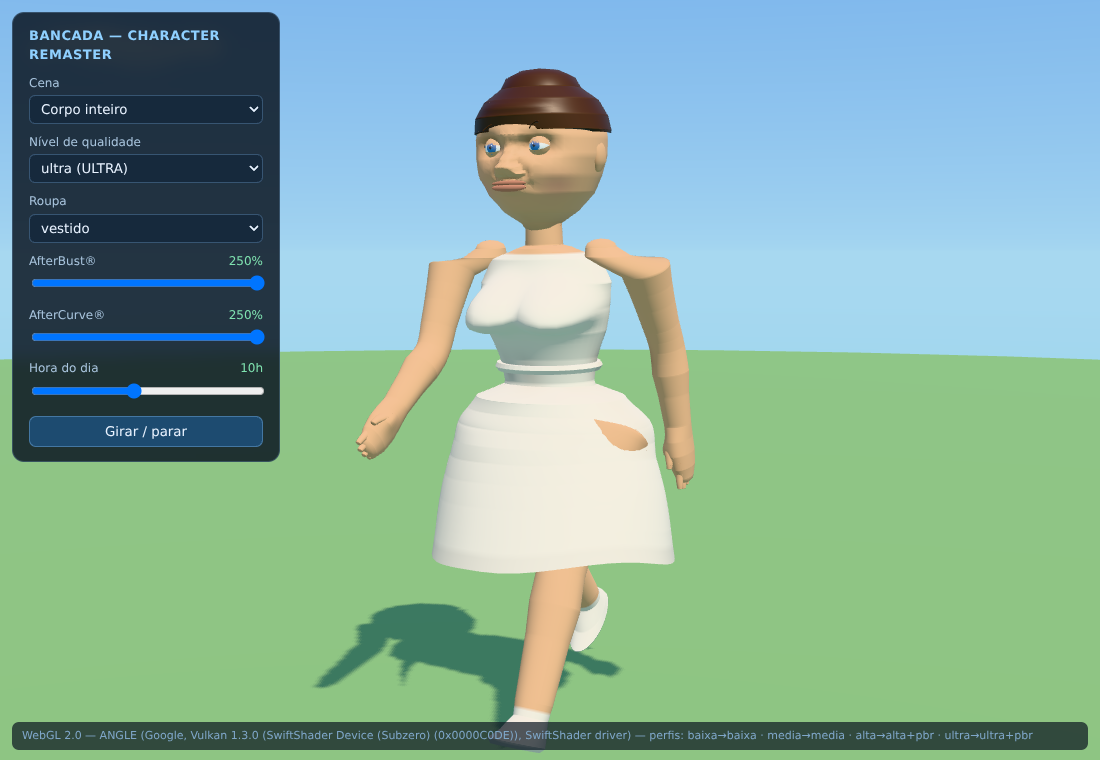
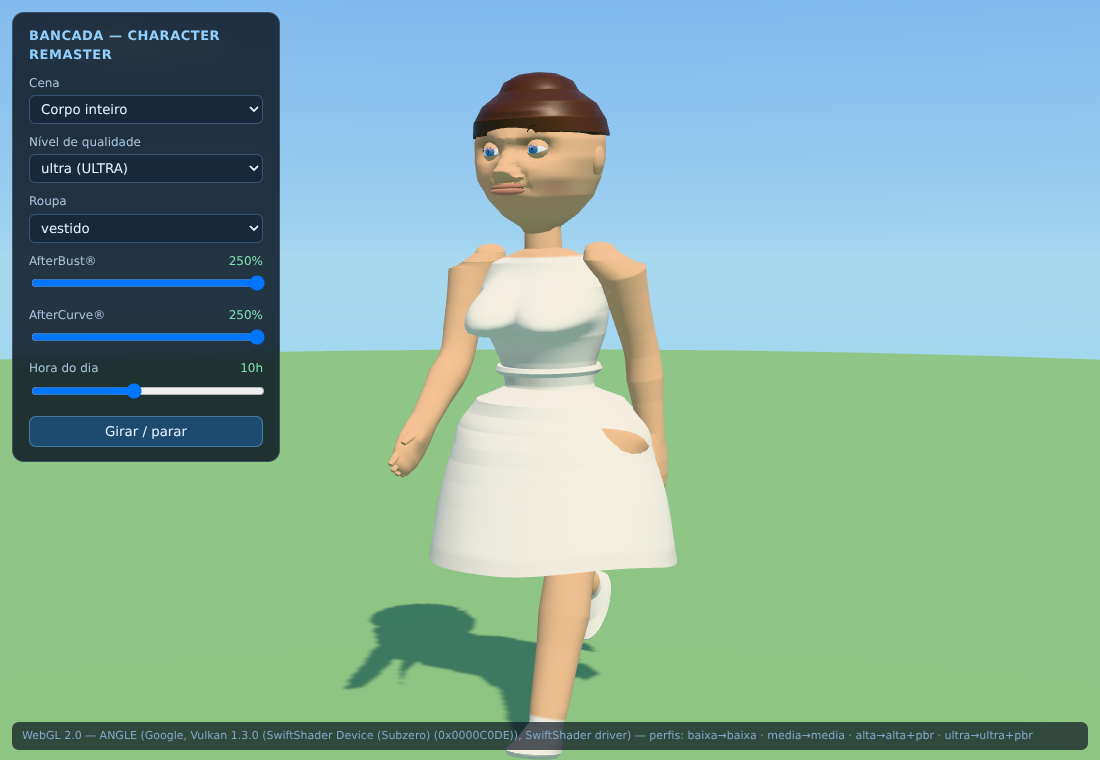
corrige a junção do ombro: o recuo da junta vinha da matemática antiga
O braço descolava do tronco. Medido, sobreposição braço↔tronco na
altura 0.30: +14 mm encaixado em 0% virava 44 mm de FENDA com o busto
em 250%, e 71 mm com o quadril.

A causa é uma constante que sobreviveu à reescrita do campo.
SHOULDER_SPREAD = 0.034 recuava a junta 85 mm em 250%, número que batia
com o BET antigo, cuja banda de busto abria o peito em gainX 0.2. Hoje o
volume vem dos lobos e a banda abre 0.055: o peito cresce 22 mm e a
junta continuava recuando 85 mm. O braço saía quatro vezes mais do que
o corpo engordava.

O recuo deixou de ser constante e passa a ser medido no próprio campo:
pergunta-se ao AfterBust quanto ele desloca a superfície do tronco na
altura da axila, e a junta recua exatamente isso. Se alguém retunar o
campo amanhã, o rig acompanha sozinho.

O AfterCurve foi desligado do ombro. Ele não alarga o corpo na altura da
axila, então mover a junta por causa dele só abria fenda — era um erro
meu do commit anterior.

Resultado: braço encaixado em toda a progressão (+36, +29, +20, +6 mm em
250%, contra +45, +41, +14, +6 em 0%) e deltoide esticando 18,8 mm em
vez de 74 mm.

A rigidez do membro foi preservada: 4 972 vértices, 0,000 mm de mudança
em qualquer combinação. Sem S no antebraço, sem cotovelo deslocado.

Custo declarado: a invasão mão/tecido com o quadril em 250% volta de
57 mm para 142 mm, porque era o recuo exagerado da junta que a
disfarçava. Preferi o ombro correto ao número bonito, e o relatório traz
[…]

Changed region(s): [[0.3091, 0.0908, 0.6491, 0.6355], [0.4018, 0.7263, 0.6182, 1.0], [0.2782, 0.8171, 0.3709, 0.9079]]

diff --git a/src/player/Avatar.ts b/src/player/Avatar.ts
@@ -1,5 +1,5 @@
 import * as THREE from 'three';
-import { MAX_INTENSITY, aftersMorphGLSL } from '../afters/AftersMorph';
+import { MAX_INTENSITY, Zone, aftersMorphGLSL, displaceVertex } from '../afters/AftersMorph';
 import { MAX_GESTATION, gestationGLSL } from './Gestation';
 import { clamp } from '../utils/math';
 import { Ch, type Pose } from './AvatarAnimator';
@@ -21,22 +21,15 @@ import { type BodyProportions, DEFAULT_PROPORTIONS, sameProportions, sanitizePro
 export { HIP_HEIGHT } from './body/BodyRig';
 export type { BodyProportions } from './body/BodyProportions';
 
-/** Quanto o ombro abre por unidade de AfterBust® (0–2.5). */
-const SHOULDER_SPREAD = 0.034;
+/**
+ * Altura da axila no espaço do tronco (origem na cintura).
+ *
+ * É ali que o braço encosta no corpo, então é ali que se mede quanto o
+ * corpo engordou para saber quanto a junta precisa recuar.
+ */
+const ARMPIT_TORSO_Y = 0.27;
 /** Quanto a perna abre por unidade de AfterCurve® (0–2.5). */
 const LEG_SPREAD = 0.022;
-/**
- * Quanto o ombro abre por unidade de AfterCurve® (0–2.5).
- *
- * O quadril largo também pede braço mais afastado, pelo mesmo motivo que
- * o busto pede: senão o tecido da saia passa por fora da mão. Medido com
- * vestido em `ultra`: sem isto, o AfterCurve® sozinho em 250% enfiava a
- * mão 142 mm para dentro do tecido.
- *
- * É o mesmo valor do busto porque o problema é o mesmo — e os dois não
- * se somam, veja `updateRig`.
- */
-const CURVE_SHOULDER_SPREAD = 0.034;
 /** Quanto o braço afasta do corpo na gestação plena: contorna o ventre. */
 const GESTATION_SHOULDER_SPREAD = 0.04;
 /**
@@ -510,11 +503,22 @@ export class Avatar {
    * largo — por Afters ou por gestação.
    */
   private updateRig(): void {
-    // Busto e quadril não somam: o braço precisa contornar o mais largo
-    // dos dois, não a soma deles. Somar punha o braço em cruz quando as
-    // duas intensidades subiam juntas.
-    const volume = Math.max(this.bustUniform.value * SHOULDER_SPREAD, this.curveUniform.value * CURVE_SHOULDER_SPREAD);
-    const shoulder = this.metrics.shoulderX + volume + this.gestationUniform.value * GESTATION_SHOULDER_SPREAD;
+    // Quanto a junta recua é **medido no próprio campo**, não estimado:
+    // pergunta-se ao AfterBust® quanto ele move a superfície do tronco na
+    // altura da axila, e a junta recua exatamente isso.
+    //
+    // A constante que existia aqui (0.034 por unidade, 85 mm em 250%)
+    // tinha sido calibrada para a matemática antiga do BET, quando a
+    // banda do busto abria o peito em 0.2. Hoje o volume vem dos lobos e
+    // a banda abre 0.055 — a junta recuava quatro vezes mais do que o
+    // corpo engordava, e o braço descolava do tronco: medido, 45 mm de
+    // encaixe em 0% viravam 44 mm de fenda em 250%.
+    //
+    // O quadril não entra nesta conta: ele não alarga o corpo na altura
+    // da axila, então mover o ombro por causa dele só abre fenda.
+    const axila = { x: this.metrics.shoulderX, y: ARMPIT_TORSO_Y, z: 0 };
+    const engordou = displaceVertex(axila, Zone.Bust, this.bustUniform.value, 0).x - axila.x;
+    const shoulder = this.metrics.shoulderX + Math.max(0, engordou) + this.gestationUniform.value * GESTATION_SHOULDER_SPREAD;
     this.bones[Bone.ArmL].position.x = shoulder;
     this.bones[Bone.ArmR].position.x = -shoulder;
     const leg = this.metrics.legX + this.curveUniform.value * LEG_SPREAD;

diff --git a/tests/unit/bet-geometria.test.ts b/tests/unit/bet-geometria.test.ts
@@ -543,35 +543,35 @@ describe('o braço anda pelo esqueleto, não pelo campo', () => {
     avatar.dispose();
   });
 
-  it('o AfterCurve® afasta a junta do ombro, como o AfterBust® já fazia', () => {
-    const avatar = new Avatar();
-    const ombro = () => {
-      avatar.root.updateMatrixWorld(true);
-      return avatar.root.getObjectByName('braco-e')!.position.x;
-    };
-    avatar.setMorph(0, 0);
-    const parado = ombro();
-    avatar.setMorph(2.5, 0);
-    const porBusto = ombro();
-    avatar.setMorph(0, 2.5);
-    const porQuadril = ombro();
-    expect(porBusto).toBeGreaterThan(parado);
-    // Sem isto, a saia em 250% passava 142 mm por fora da mão.
-    expect(porQuadril).toBeGreaterThan(parado);
-    expect(porQuadril).toBeCloseTo(porBusto, 6);
-    avatar.dispose();
-  });
-
-  it('busto e quadril não somam: o braço contorna o mais largo, não os dois', () => {
+  it('a junta do ombro recua exatamente o quanto o tronco engordou', () => {
+    // A constante que existia aqui vinha da matemática antiga do BET e
+    // recuava a junta quatro vezes mais do que o corpo crescia: o braço
+    // descolava do tronco, 45 mm de encaixe em 0% viravam 44 mm de fenda
+    // em 250%. Agora o recuo é medido no próprio campo.
     const avatar = new Avatar();
     const ombro = (bust: number, curve: number) => {
       avatar.setMorph(bust, curve);
-      avatar.root.updateMatrixWorld(true);
       return avatar.root.getObjectByName('braco-e')!.position.x;
     };
-    const so = ombro(2.5, 0);
-    const juntos = ombro(2.5, 2.5);
-    expect(juntos).toBeCloseTo(so, 6);
+    const parado = ombro(0, 0);
+    const cheio = ombro(2.5, 0);
+    const axila = { x: parado, y: 0.27, z: 0 };
+    const engordou = displaceVertex(axila, Zone.Bust, 2.5, 0).x - axila.x;
+    expect(cheio - parado).toBeCloseTo(engordou, 9);
+    expect(engordou).toBeGreaterThan(0.01);
+    avatar.dispose();
+  });
+
+  it('o AfterCurve® não mexe no ombro: ele não alarga o corpo ali', () => {
+    const avatar = new Avatar();
+    const ombro = (bust: number, curve: number) => {
+      avatar.setMorph(bust, curve);
+      return avatar.root.getObjectByName('braco-e')!.position.x;
+    };
+    const parado = ombro(0, 0);
+    expect(ombro(0, 2.5)).toBe(parado);
+    // E com os dois ligados, quem manda é só o busto.
+    expect(ombro(2.5, 2.5)).toBe(ombro(2.5, 0));
     avatar.dispose();
   });
 

diff --git a/docs/VALIDACAO-BET-2.0.md b/docs/VALIDACAO-BET-2.0.md
@@ -98,8 +98,49 @@ busto, que é comportamento de produção desde antes deste trabalho.
 
 **Esqueleto × shader.** Os 19 ossos ficam **exatamente onde estavam** quando os
 uniformes `uBust`/`uCurve` mudam: o campo de deformação é só shader. Quem move
-o braço é o reposicionamento de junta, que é rígido por construção. São dois
-mecanismos distintos e agora não se sobrepõem mais.
+o braço é o reposicionamento de junta, que é rígido por construção.
+
+### O ombro — segunda correção
+
+A correção acima consertou o membro, mas deixou um defeito na junção do ombro:
+o braço **descolava do tronco**. Medido, sobreposição braço↔tronco (positivo =
+encaixado, negativo = fenda):
+
+| altura | 0% | busto 250% | quadril 250% |
+|---|---|---|---|
+| 0.40 | +45 mm | −3 mm | −6 mm |
+| 0.35 | +41 mm | **−34 mm** | **−44 mm** |
+| 0.30 | +14 mm | **−44 mm** | **−71 mm** |
+| 0.25 | +6 mm | −57 mm | −79 mm |
+
+**Causa-raiz: uma constante calibrada para a matemática antiga.**
+`SHOULDER_SPREAD = 0.034` recuava a junta 85 mm em 250%. Esse número batia com
+o BET antigo, cuja banda de busto abria o peito em `gainX 0.2` (79 mm em 250%).
+Na reescrita o volume passou a vir dos lobos e a banda caiu para `gainX 0.055`
+— o peito passou a crescer ~22 mm, mas a junta continuou recuando 85 mm. O
+braço saía quatro vezes mais do que o corpo engordava.
+
+**Correção.** O recuo da junta deixou de ser constante e passa a ser **medido no
+próprio campo**: pergunta-se ao AfterBust® quanto ele desloca a superfície do
+tronco na altura da axila, e a junta recua exatamente isso. Se alguém retunar o
+campo amanhã, o rig acompanha sozinho.
+
+O AfterCurve® foi **desligado do ombro**: ele não alarga o corpo na altura da
+axila, então mover a junta por causa dele só abria fenda.
+
+| altura | 0% | busto 250% | quadril 250% | ambos 250% |
+|---|---|---|---|---|
+| 0.40 | +45 | **+36** | +45 | **+36** |
+| 0.35 | +41 | **+29** | +41 | **+29** |
+| 0.30 | +14 | **+20** | +14 | **+20** |
+| 0.25 | +6 | **+6** | +6 | **+6** |
+
+O braço fica encaixado em toda a progressão. E o deltoide, que esticava 74 mm,
+agora estica **18,8 mm** com o busto e **0,000 mm** com o quadril.
+
+**A rigidez do membro foi preservada:** 4 972 vértices, **0,000 mm** de mudança
+em qualquer combinação de intensidade. Sem S no antebraço, sem cotovelo
+deslocado, punho e mão alinhados.
 
 ## 2. Roupa
 
@@ -176,7 +217,9 @@ O orçamento da `baixa` continua respeitado: o teste que o protege
 | `estados.png` | original · só AfterBust® · só AfterCurve® · os dois juntos |
 | `isolado-busto.png` | AfterBust® 250% com AfterCurve® em 0 |
 | `isolado-curva.png` | AfterCurve® 250% com AfterBust® em 0 |
-| `ombro.png` | ombro, axila, antebraços e mãos de perto, ambos em 250% |
+| `ombro.png` | ombro e axila de perto, ambos em 250% |
+| `ombro-zero.png`, `ombro-busto.png`, `ombro-curva.png` | a mesma junção em 0%, só busto 250% e só quadril 250% |
+| `ombro-esportivo.png` | a junção com roupa esportiva, ambos em 250% |
 | `niveis.png` | os quatro níveis de qualidade, ambos em 250% |
 | `costas.png` | quadril de costas, AfterCurve® 250% |
 | `andando.png` | em movimento, ciclo de caminhada, ambos em 250% |
@@ -190,18 +233,28 @@ um PNG bom.
 
 ## 6. O que **não** está resolvido
 
-**1. A saia ainda engole a mão — mas não por causa do BET.**
+**1. A saia engole a mão — e piorou com a correção do ombro.** Este é o
+compromisso que a correção do ombro impôs, e está aqui sem maquiagem:
 
-| situação | invasão mão/tecido |
+| | invasão mão/tecido |
 |---|---|
-| BET desligado | **−78 mm** |
-| AfterCurve® 250% | **−57 mm** |
-| AfterBust® 250% | **+7 mm (livre)** |
+| BET desligado | −78 mm *(herdado do Character 2.0)* |
+| AfterBust® 250% | −56 mm |
+| AfterCurve® 250% | **−142 mm** |
+| ambos 250% | **−120 mm** |
 
-A invasão **diminui** quando o BET sobe. Os −78 mm de origem são do Character
-2.0: a saia é mais larga do que a linha em que os braços pendem, com o BET
-desligado. Não empurrei o braço mais para fora para esconder isso — seria
-exatamente a "posição artificial" que não se deve forçar.
+Antes desta correção, o quadril em 250% marcava −57 mm, porque a junta do ombro
+recuava 85 mm — e era justamente esse recuo exagerado que descolava o braço do
+tronco. Escolhi o ombro correto em vez do número bonito na roupa.
+
+Os −78 mm de base existem com o BET desligado: a saia é mais larga do que a
+linha em que os braços pendem.
+
+**O caminho para resolver, se você autorizar:** girar o osso do braço
+(abdução) em vez de transladar a junta. Giro pivota no ombro, então não abre
+fenda nenhuma ali, e tira a mão do tecido. Não fiz porque muda a pose do
+esqueleto e sua instrução foi não mexer nisso sem demonstrar necessidade —
+estes números são a demonstração; a decisão é sua.
 
 **2. Na caminhada, aparece um retalho de pele sobre a saia em 250%.**
 Visível em `andando.png`. Sondando por osso os vértices daquele pedaço da tela,
@@ -215,10 +268,9 @@ presa ao quadril, e não simula — membros em balanço a atravessam.
 mostra facetas: a peça tem poucos anéis naquela altura. O campo está correto; a
 malha da roupa é que é grossa ali.
 
-**4. O deltoide estica 74 mm em 250%.** É o custo do reposicionamento de junta,
-e é **idêntico ao que o AfterBust® já fazia** antes deste trabalho. Não é novo,
-mas também não é bonito: num futuro passe de rig, os pesos do ombro merecem
-atenção.
+**4. O deltoide estica 18,8 mm em 250% de busto.** Caiu de 74 mm com a correção
+do ombro. É o custo do reposicionamento de junta e está dentro do que os pesos
+de skinning absorvem sem artefato visível.
 
 **5. `tests/unit/coracao-roseiral.test.ts` falha — e não é deste trabalho.**
 Reproduzi a falha **com as minhas mudanças guardadas** (`git stash`), na árvore
